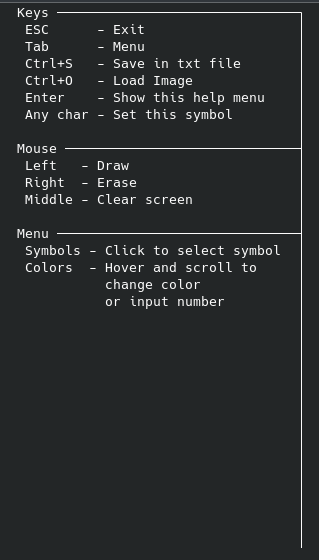
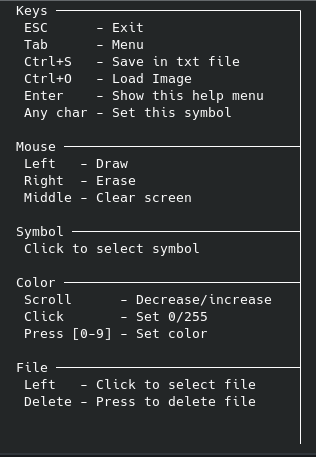
color sets update

diff --git a/menu.go b/menu.go
@@ -16,10 +16,10 @@ var symbols = map[int]map[int]string{
 	9:  {3: "╭", 5: "╮", 7: "╯", 9: "╰"},
 	11: {3: "░", 5: "▒", 7: "▓", 9: "█"},
 }
-var colors = map[int]map[int]string{
-	15: {3: "R"},
-	17: {3: "G"},
-	19: {3: "B"},
+var colors = map[int]string{
+	15: "R",
+	17: "G",
+	19: "B",
 }
 
 func drawMenu(s *screen, screen [][]string) [][]string {
@@ -49,17 +49,17 @@ func drawColorMenu(s *screen, screen [][]string) [][]string {
 	str := "Color " + strings.Repeat("─", menuWidth-2-len("Color ")) + "┤"
 	drawString(0, 13, str, screen)
 	for y, line := range colors {
-		for x, color := range line {
-			drawString(x, y, strconv.Itoa(s.color[color]), screen)
-			switch color {
-			case "R":
-				screen[y][x] = fgRgb(s.color[color], 0, 0, "█")
-			case "G":
-				screen[y][x] = fgRgb(0, s.color[color], 0, "█")
-			case "B":
-				screen[y][x] = fgRgb(0, 0, s.color[color], "█")
-			}
+
+		drawString(3, y, strconv.Itoa(s.color[line]), screen)
+		switch line {
+		case "R":
+			screen[y][3] = fgRgb(s.color[line], 0, 0, "█")
+		case "G":
+			screen[y][3] = fgRgb(0, s.color[line], 0, "█")
+		case "B":
+			screen[y][3] = fgRgb(0, 0, s.color[line], "█")
 		}
+
 	}
 	screen[21][3] = fgRgb(s.color["R"], s.color["G"], s.color["B"], "█")
 	screen[21][4] = fgRgb(s.color["R"], s.color["G"], s.color["B"], "█")

diff --git a/mouse_motion.go b/mouse_motion.go
@@ -48,16 +48,16 @@ func onFile(msg tea.MouseMsg, s *screen) {
 
 func onMenu(msg tea.MouseMsg, s *screen) {
 	s.cursor = " "
-	_, okS := symbols[msg.Y][msg.X]
-	color, okC := colors[msg.Y][msg.X]
-	if okS {
+	_, okSymbol := symbols[msg.Y][msg.X]
+	color, okColor := colors[msg.Y]
+	if okSymbol {
 		s.X = msg.X - 1
 		s.cursor = fgRgb(170, 170, 170, pointer)
 	}
-	if okC {
+	if okColor && msg.X < menuWidth {
 		s.inputLock = true
 		s.inputColor = color
-		s.X = msg.X - 2
+		s.X = 1
 		s.cursor = fgRgb(170, 170, 170, pointer)
 	} else {
 		s.inputLock = false
@@ -66,7 +66,7 @@ func onMenu(msg tea.MouseMsg, s *screen) {
 		}
 		s.input = ""
 	}
-	if !okS && !okC {
+	if !okSymbol && !okColor {
 		s.X = menuWidth + 1
 		s.cursor = " "
 	}

diff --git a/help_menu.go b/help_menu.go
@@ -35,17 +35,24 @@ var menu = []menuItem{
 	},
 	{
 		Y:     13,
-		title: "Menu",
+		title: "Symbol",
 		end:   "┤",
 		item: []string{
-			"Symbols - Click to select symbol",
-			"Colors  - Hover and scroll to",
-			"          change color",
-			"          or input number",
+			"Click to select symbol",
 		},
 	},
 	{
-		Y:     19,
+		Y:     16,
+		title: "Color",
+		end:   "┤",
+		item: []string{
+			"Scroll      - Decrease/increase",
+			"Click       - Set 0/255",
+			"Press [0-9] - Set color",
+		},
+	},
+	{
+		Y:     21,
 		title: "File",
 		end:   "┤",
 		item: []string{

diff --git a/mouse_bind.go b/mouse_bind.go
@@ -19,11 +19,13 @@ func mouseBind(msg tea.MouseMsg, s *screen) {
 		s.pixels = []pixel{}
 
 	case tea.MouseWheelDown:
-		color := colors[msg.Y][msg.X]
-		s.color[color] = decrease(s.color[color])
+		if color, ok := colors[msg.Y]; ok {
+			s.color[color] = decrease(s.color[color])
+		}
 
 	case tea.MouseWheelUp:
-		color := colors[msg.Y][msg.X]
-		s.color[color] = increase(s.color[color])
+		if color, ok := colors[msg.Y]; ok {
+			s.color[color] = increase(s.color[color])
+		}
 	}
 }

diff --git a/mouse_left.go b/mouse_left.go
@@ -12,6 +12,9 @@ func mouseLeft(msg tea.MouseMsg, s *screen) {
 			s.cursorStore = symbol
 			s.cursor = symbol
 		}
+		if color, ok := colors[msg.Y]; ok {
+			s.color[color] = minMsxColor(s.color[color])
+		}
 	} else if s.showFile && msg.X < s.fileListWidth {
 		s.showFile = false
 		if file, ok := s.fileList[msg.Y]; ok {

diff --git a/color.go b/color.go
@@ -26,3 +26,11 @@ func increase(color int) int {
 
 	return color
 }
+
+func minMsxColor(color int) int {
+	if color > 0 {
+		return 0
+	}
+
+	return 255
+}
